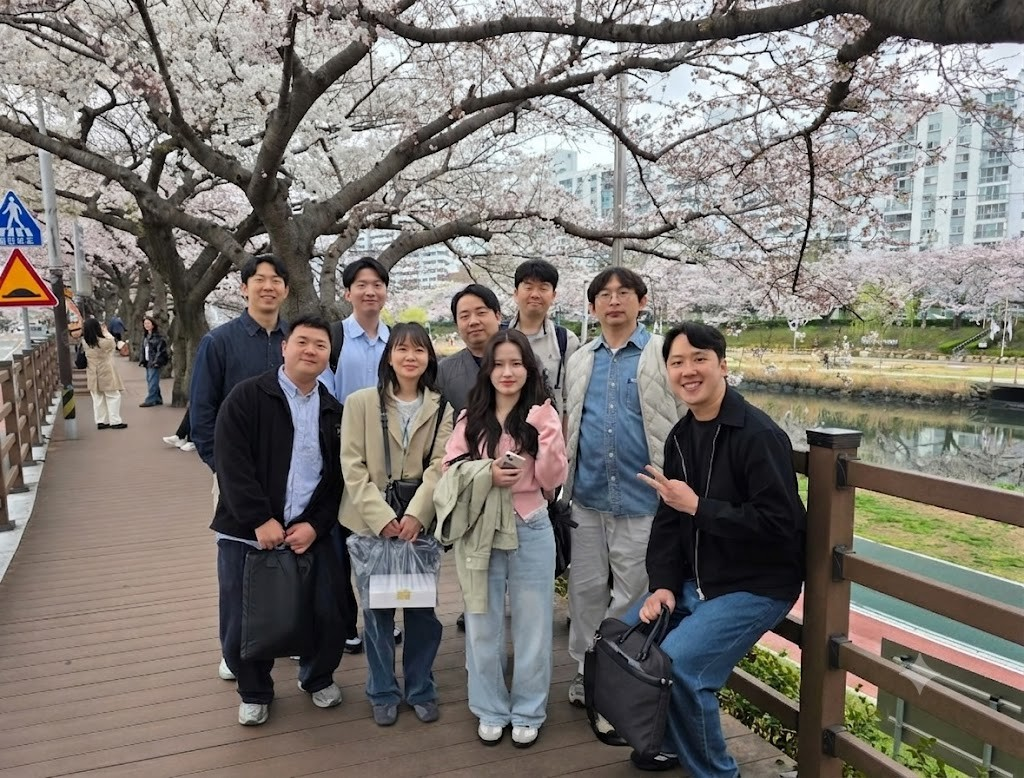
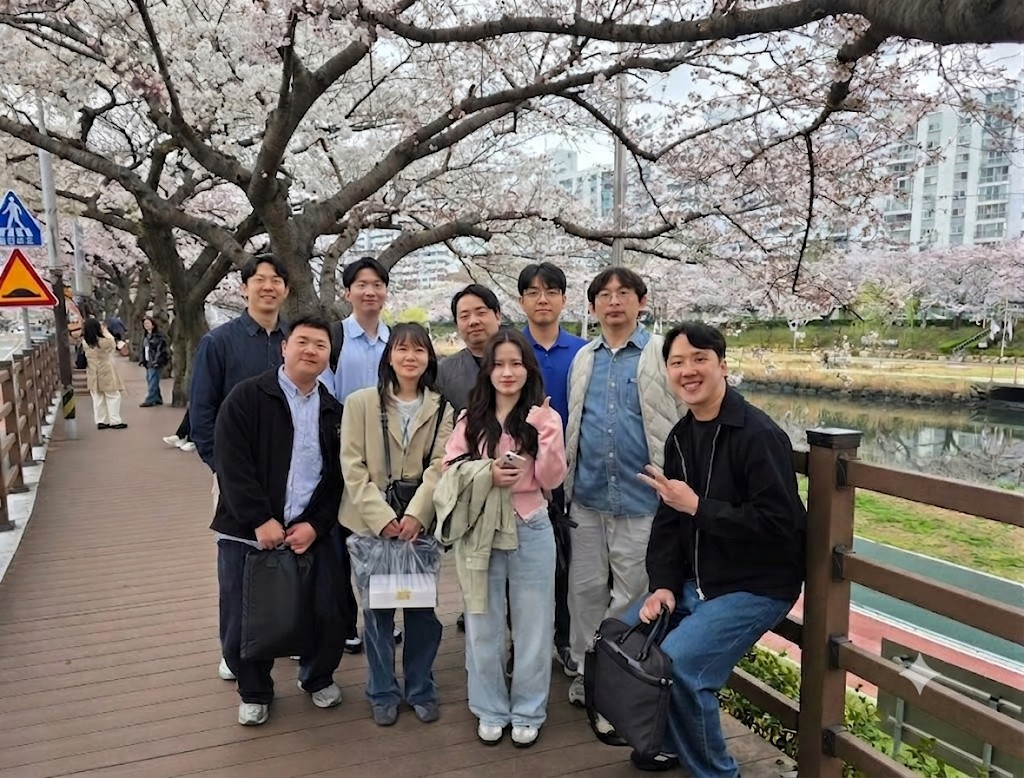
6/30

diff --git a/slide-scripts.raw.js b/slide-scripts.raw.js
@@ -306,25 +306,31 @@ API부터 DB 설계까지 다양한 주제에서 질문과 토론이 오가며, 
 
 이런 분위기가 실제 역량으로 이어졌는지도 객관적으로 보기 위해 PUG 시작 전·후 **동일 40문항 자기점검**을 실시했습니다.
 
-체크리스트는 프롬프트 숙련도가 아니라 **Web·AI PoC를 끝까지 구현할 수 있는지**를 보는 관점에서 구상했습니다.
+체크리스트는 웹 개발 PoC를 끝까지 구현하기 위해 도달해야할 항목들로 구성하였습니다.
 
-먼저 코딩·DB·FE/BE·REST API 기초는 AI가 만든 코드를 읽고 수정하려면 반드시 필요합니다. 바이브 코딩과 API 설계는 요구사항을 **Request/Response** 흐름으로 구현해야 PoC가 화면 데모에서 끝나지 않습니다. LLM API 호출과 RAG는 사내 데이터를 붙여 **근거 있는 답**을 만들기 위한 항목이고, 오케스트레이션은 n8n이나 Power Automate로 **현업 시스템과 연동**하는 역량을 봅니다. Git과 배포·운영은 코드와 결과물을 팀이 이어서 다룰 수 있게 하기 위한 것이고, AI 에이전트 영역은 LLM·API·DB를 하나로 묶어 **작동하는 MVP**까지 가는지를 확인합니다.
+먼저 코딩·DB·FE/BE·REST API 기초는 AI가 만든 코드를 읽고 수정하려면 반드시 필요합니다. 
+바이브 코딩과 API 설계는 요구사항을 **Request/Response** 흐름으로 구현해야 PoC가 화면 데모에서 끝나지 않습니다. 
+LLM API 호출과 RAG는 사내 데이터를 붙여 **근거 있는 답**을 만들기 위한 항목이고, 오케스트레이션은 n8n이나 Power Automate로 **현업 시스템과 연동**하는 역량을 봅니다. 
+Git과 배포·운영은 코드와 결과물을 팀이 이어서 다룰 수 있게 하기 위한 것이고, AI 에이전트 영역은 LLM·API·DB를 하나로 묶어 **작동하는 MVP**까지 가는지를 확인합니다.
 
 화면의 7개 영역이 그 기준이고, Before/After로 비교해 단순히 AI를 써본 수준을 넘어 이런 기술 역량도 함께 성장했다는 점을 수치로 확인할 수 있었습니다.
 
 -------------------
 # 멤버별 역량 성장
-슬라이드 하단에 보이는 것처럼 전체 평균 달성률은 **Before 28%에서 After 89%**, +61%p였습니다.
-
-멤버별로도 Before에서 After로의 변화가 분명합니다. 출발점은 달랐지만 같은 40문항 기준으로 봤고, 평균 체크 항목도 11개에서 35.6개로 늘었습니다.
+네 이 슬라이드 하단에 보이는 것처럼 전체 평균 달성률은 28%에서 89%로, +61%p 성장했고,
+멤버별로 출발점은 달랐지만 모든 구성원이 30개 이상 체크하며 평균적으로 89%의 항목을 체크 할 수 있게 되었습니다.
 
 -------------------
 # AI 활용 문화, 조직에 뿌리내리다
-PUG의 성장은 AI **사용법**의 성장이 아니라, 현업 문제를 AI 관점으로 다시 정의하고 해결 가능성을 검증하는 방식의 성장입니다. 도구 중심에서 문제 중심으로, 학습에서 실행으로, 개인 경험에서 공동 피드백으로, 역량 체감에서 역량 측정으로 변화했습니다.
+지금까지의 교육과 실습, PoC, 함께 질문하고 배우는 방식을 돌아보면 PUG가 처음부터 지향하던 **AI 활용 문화 확산**이 조직 안에서 어떻게 일어나고 있는지 확인해보았습니다.
+
+맞춤형 커리큘럼과 실습·PoC로 배우는 데서 멈추지 않고 현업 문제를 직접 풀어봤고, 실습 중에는 API부터 DB·LLM까지 함께 질문하고 토론하며 혼자 익히던 방식에서 벗어났습니다. Web·AI PoC에 필요한 기술 역량을 체크리스트로 점검하면서, 프롬프트를 잘 쓰는 수준을 넘어 설계하고 구현할 수 있는 방향으로 성장했습니다.
+
+화면 표에 정리된 것처럼 도구가 아니라 **현업 문제**가 중심이 되었고, 학습이 실행으로, 개인 경험이 공동 피드백으로 바뀌었습니다. 이 흐름이 모여 AI를 혼자 쓰는 문화에서 **함께 풀어보는 문화**로 뿌리내릴 수 있었습니다.
 
 -------------------
 # 다음 PoC로, 함께 나아갑니다
-PUG의 여정은 아직 끝나지 않았습니다. 2025년의 고민에서 출발해 2026년에는 현업 문제를 AI로 풀어보는 실험실로 성장했고, 이제 PoC와 협업으로 더 멀리 나아갑니다.
+뿌리내린 문화는 여기서 멈추지 않습니다. PUG는 여전히 현업 문제를 AI로 풀어보는 실험실이고, 그 여정은 앞으로도 PoC와 협업으로 이어집니다.
 
-오늘은 PUG 활동 회고이고, 각 멤버분이 만든 PoC는 이어서 직접 발표하실 예정입니다. 함께해 주셔서 감사합니다.
+오늘은 그 과정을 회고했고, 이어서 각 멤버분이 만드신 PoC를 직접 들어보실 예정입니다. 끝까지 함께해 주셔서 감사합니다.
 `;
